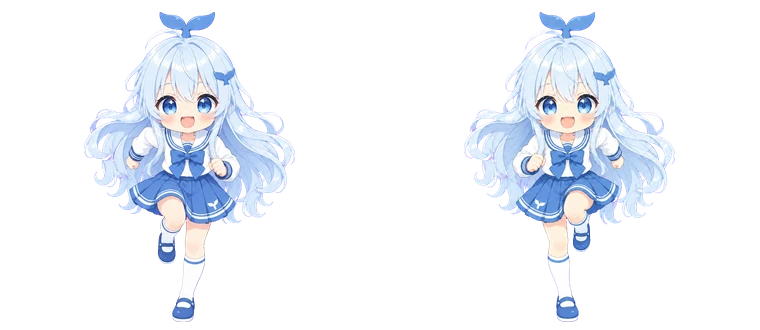
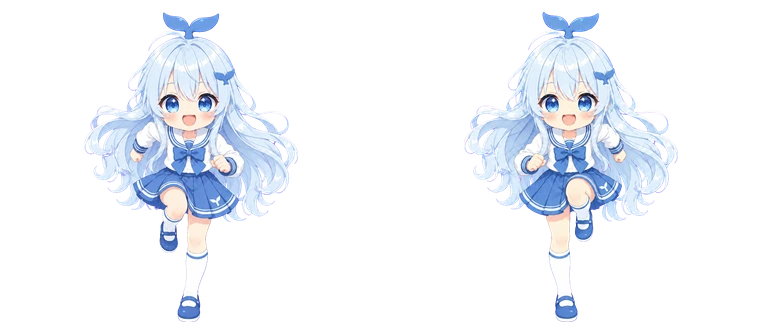
重出"跑"：上一版两帧剪影几乎一样，翻起来像没动
用户报「跑的动画好像腿部没有摆动起来」。先量占比：下半身帧间差 52.8%、脚那一段 39.6%，
翻帧间隔 0.4 秒也正常——数据上它确实在动。问题在剪影：两帧都是"抬起同一条腿"的镜像姿势，
外轮廓几乎重合，手机上图又小，翻起来看不出在动。

这一版：一膝抬到大腿近水平、脚提到膝高，另一条腿伸直踩地，第二帧换边。下半身帧间差 40.6%、
脚 31.1%、上半身 62.7%。

顺带把验收口径补进 docs/character.md：占比高不等于看得出在动，还要看两帧的外轮廓。

diff --git a/docs/character.md b/docs/character.md
@@ -40,7 +40,7 @@
 | `work-3-typing` | 打字 | 坐在小书桌前打键盘 | 略前倾、手再按下去一下 | 上身少许＋手 |
 | `work-4-checking` | 检查 | 放大镜举到眼前看 | 放大镜略移开、头微转 | 手臂＋头 |
 | `work-5-thinking` | 思考 | 双手交握在下巴前、眼往上看 | 手略低、眼神再往上一点 | 手＋眼神 |
-| `work-6-running` | 跑 | 大步跑：一腿后蹬、一膝抬起、两臂在身侧摆 | 换腿，裙摆甩向另一边 | 腿＋裙摆＋臂 |
+| `work-6-running` | 跑 | 一膝抬到大腿近水平、脚提到膝高，另一腿伸直踩地，两臂在身侧摆 | 换边：另一条膝盖抬起、原来踩地的那条伸直 | 腿＋鞋＋臂 |
 | `work-7-waiting` | 等太久 | 捧着杯子、肩微塌、低头看杯子 | 抬头、杯子略举 | 手＋头 |
 | `work-8-sprinting` | 冲刺 | 弓身猛冲，一腿后蹬离地 | 换腿、身体再前倾、臂摆更大 | 腿＋上身＋臂 |
 | `work-9-talking` | 说话 | 一只手举在头侧挥手、嘴张开 | 那只手落到肩高，仍在挥 | 单臂 |
@@ -87,6 +87,10 @@ Keep EVERYTHING else identical to the reference image: the same character, the s
 - 一张图里并排两格；切图后合成 **760×330** 的 WebP（两帧并排，各 380×330），透明底。
 - 人物高度 **310px**（±2%）；洋红抠底残留 **0**；离中缝 12px 内不透明像素 **0**（两格没挨太近）。
 - 两帧"真的动过"的像素占比 **≥ 5%**（任一通道差 > 24）。本次实测 8.5%～28%。
+- **光看占比不够，还要看剪影。** 占比高、但两帧的外轮廓差不多（例如两帧都是"抬起同一条腿"），
+  播起来仍然像没动——手机上图小，两三像素的差别看不出来。跑那张 2026-09-28 就这样返工过一次：
+  它的下半身帧间差有 52.8%，用户却说"腿部没有摆动起来"；改成一膝抬到大腿近水平、两帧换边
+  之后（上半身差 62.7%）才读得出。判断办法：把两帧叠起来看外轮廓，或者把下半身裁出来放大并排看。
 - **下半身不该动的姿势，裙子以下那一段差异要接近 0**。本次实测（成图第 240～330 行）：
   待命 0.6%、读书 0.5%、打字 2.1%、检查 5.4%、思考 0.7%、等太久 1.0%、说话 0.3%；
   跑 83.3%、冲刺 45.8%——这两张按设计动腿，不算缺陷。
